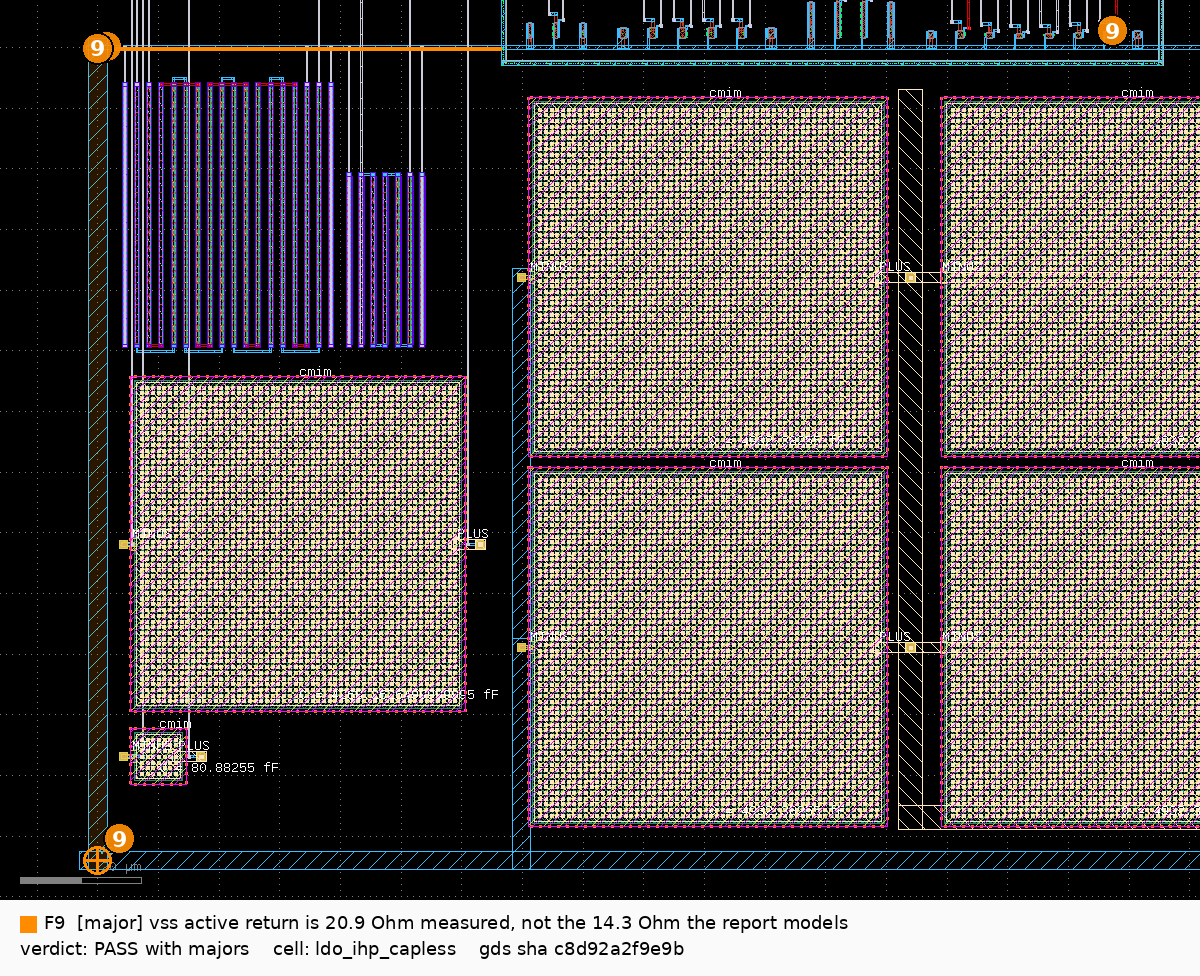
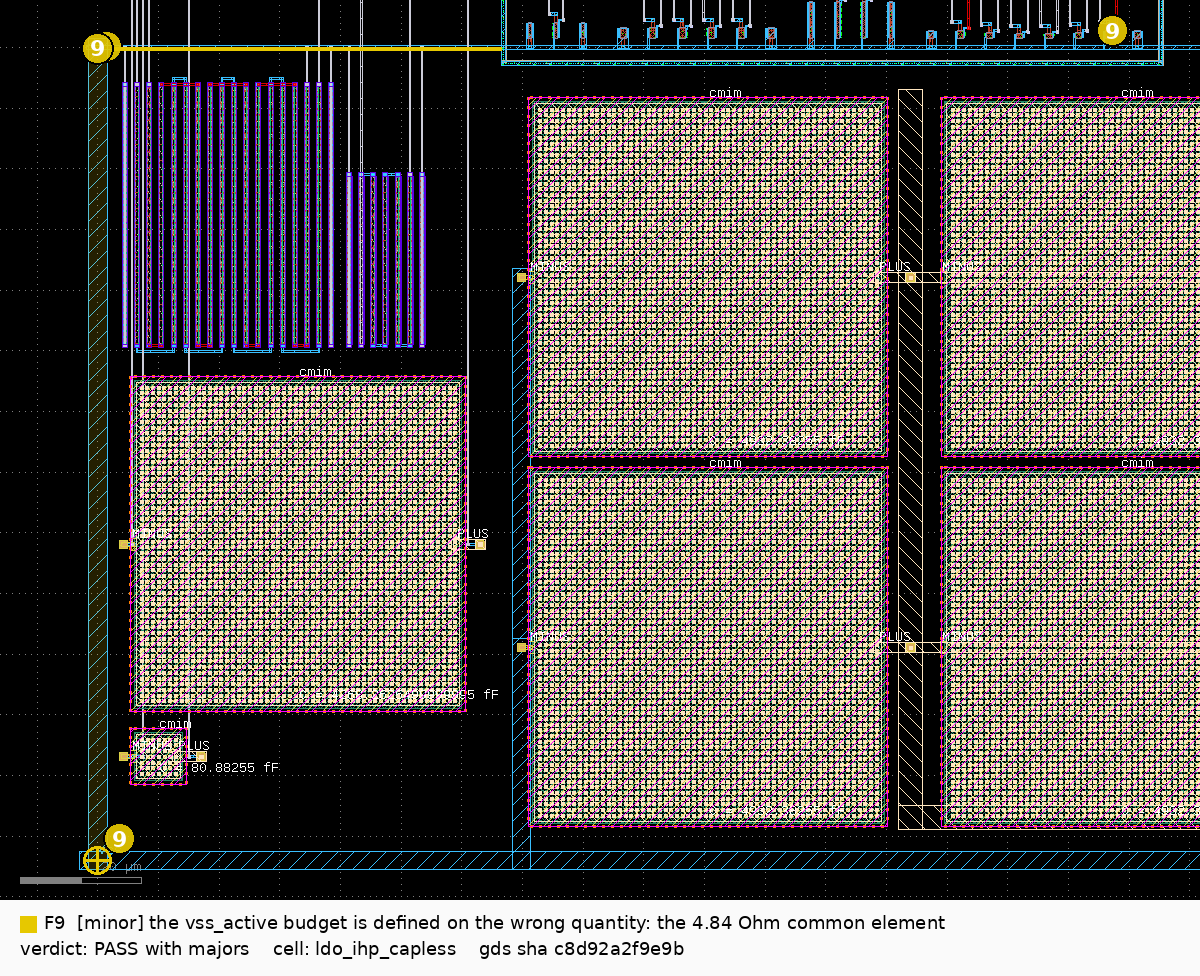
review(layout): F9 demoted to minor by an in-circuit what-if; add the at-a-glance grade
- F9 major -> minor. The report's 14.3 Ohm worst active-device return is still wrong (my
  0.1 um Laplace solve: 20.88 Ohm, 1.27x the brief's 16.4772 Ohm budget), but putting the
  solved return in circuit through the frozen benches shows the whole distributed per-device
  spread is worth +0.04 dB of psrr_1k (67.277 dB from the 4.84 Ohm common element alone ->
  67.316 dB with 14.4-20.9 Ohm per device). The brief's `vss_active` row is budgeted on the
  wrong quantity; as a lumped element the drawn cell is ~4.9 Ohm = 0.30x. Controls reproduce
  the generator's own partition: active devices alone at 32 Ohm = +0.099 dB, XCOUT alone at
  32 Ohm improves S7 to 114.0 mV, everything-but-XCOUT at 32 Ohm = -11.9 dB.
- New in F9's effect: the committed post-layout psrr_1k of 70.093 dB is measured with the
  ground return IDEAL (CC carries no vss resistor; XCOUT is re-attached to the pin), so
  2.82 dB of it is a modelling choice. Still 27 dB above the >= 40 dB spec line.
- Add the "would a senior analog layout engineer accept this at a glance" grade: ABBA
  sequences with coincident centroids (ea_in_pair x = 11.24, ea_nmos_load 27.94, bias_n_group
  85.96 for all three pairs), and all five well/substrate tap regions merge to one polygon
  WITH A HOLE -- the rings actually close. ACCEPT, with the no-MIM-dummy-ring deviation and
  the pin labelling (F13) called out.
- F1: name the RC failure mode from the run log (KLU -> SPARSE 1.3, 33 Rstitch_ coerced to
[…]

diff --git a/layout/ldo_ihp_capless/REVIEW.md b/layout/ldo_ihp_capless/REVIEW.md
@@ -14,20 +14,21 @@ matched at both sizing points, 40/40 knob endpoints, current density 30/30, and 
 post-layout metrics identical to the committed scorecard. **All three review-003 blockers are
 closed**: the certified deck is now the drawn device set (F19, verified by re-measurement), the
 knob ranges are walked and gated (F2, 40/40), and the undershoot credit is no longer banked (F3).
-Four majors stay open, and none of them breaks a spec at tt/27:
+Three majors stay open, and none of them breaks a spec at tt/27:
 
-1. **The `vss` active return is 20.9 Ω measured, against a 16.5 Ω budget and a reported 14.3 Ω.**
-   Two independent methods agree — a Laplace solve on the drawn Metal1 and a nodal solve of the
-   extractor's own stitched mesh — and the fix is one already-walked knob, `rail_w` 0.8 → 1.4,
-   measured at 15.1 Ω (F9).
-2. **The `gate` budget is a gate-only artifact.** Everything the report measures reproduces, but
+1. **The `gate` budget is a gate-only artifact.** Everything the report measures reproduces, but
    nobody measured the net's headroom in the assembled cell. Swept in situ it is **~45 fF at
    0.44 mV/fF with no step** — the drawn 34.45 fF sits at about 43 % of what the net can carry.
    Owner ruling 1 asks for a topology decision on a number the assembled cell contradicts (F3).
-3. **Still tt / 27 °C only**, and both owner rulings now depend on the corner + Monte-Carlo run
+   Demoted since the first draft of this review: **F9**, the `vss` active return. The report's
+   14.3 Ω is wrong (mine: 20.88 Ω, 1.27× the brief's per-device budget), but I then put the solved
+   return in circuit and the entire drawn per-device spread is worth **+0.04 dB** of PSRR. What the
+   metric follows is the 4.84 Ω common element (−2.82 dB), which is 0.29× of budget. F9 is now a
+   **minor**: a budget defined on the wrong quantity, and two wrong numbers in REPORT §6.4/§10.4.
+2. **Still tt / 27 °C only**, and both owner rulings now depend on the corner + Monte-Carlo run
    that has never been done. The brief itself prices `ea_nmos_load` at 0.61 σ, which is **11 % of
    dies** on the dangerous sign of one class alone (F16).
-4. **The RC extraction's mesh is now joined but its values are not usable.** On the fixed platform
+3. **The RC extraction's mesh is now joined but its values are not usable.** On the fixed platform
    the port-to-device resistance of `vdd` is **49 Ω** where the drawn metal is 0.59 Ω, and nine of
    thirteen benches time out. The series-R numbers of record stay hand models — correct ones (F1).
 
@@ -35,11 +36,11 @@ Four majors stay open, and none of them breaks a spec at tt/27:
 
 | # | severity | where (net / device / rule) | evidence | effect | fix → generator parameter | expected |
 |---|---|---|---|---|---|---|
-| **F9** | major | `vss` riser (−71.5, −135.5)–(−68.5, 0.3); bare rail run (−70.0, 0.0)→(−3.4, 0.0); `XMSb` (95.72, 1.42)–(97.35, 2.88) | REPORT §6.4 models the worst active device at **14.3 Ω** of a 16.4772 Ω budget ("89 % spent"). Solved instead of modelled — Metal1 rasterized at 0.1 µm, component flood-filled from the `vss` pin, Laplace at 110 mΩ/sq (validated on an analytic bar to −0.1 %): common series element **4.84 Ω** (report 4.91 ✓), worst device `XMS`b **20.88 Ω**, row end 20.29 Ω. The extractor's own stitched mesh agrees: 10.5–24.0 Ω per device, 4.11 Ω aggregate. Mechanism: from the riser top the return runs **66.6 µm of bare 0.8 µm rail** (9.44 Ω measured; bare rate 0.1375 Ω/µm × 66.6 = 9.16) before the row-A ptap ring even begins — the ring exists only from x = −3.4 to 105.58. §6.4 credits the ring over the whole 170 µm; over the 101 µm where it exists the credit is right (5.92 Ω measured vs 5.56 Ω rail∥ring vs 13.9 Ω bare). 14.3 Ω is what my solve returns for a device at **x = 0**, the near end. | `psrr_1k_db` **−2.0 dB** of quarter-margin budget (hand; brief's −0.45528 dB/Ω × 4.4 Ω over). No spec breaks — 70.09 dB against 40, step at 32 Ω — but the row is reported inside a budget it is 1.27× over. | **`rail_w` → 1.4** (already walked: DRC 0, LVS matched, CD 0.836×). Measured on the generator's own `rail_w_hi` build: worst device **15.13 Ω, 0.92× — inside**. `vss_ret_w` = 6.0 is the wrong lever and I measured that too: common element 4.84 → 2.43 Ω, worst device still 18.47 Ω. Cheaper alternative: extend the ring or rail left so the 66.6 µm bare section disappears. | 20.9 → 15.1 Ω; ~2 dB of PSRR budget back |
 | **F3** | major | `gate`; pass array (47.57, 61.77)–(87.25, 64.89); Metal3 gate track (46.94, 3.01)–(98.09, 60.77) | Every reported number reproduces: `gate` 44.50 fF total / **34.45 to-rail** / 8.911 to `vout`; gate-only S7 **201.744 mV** (report 201.72); I built and extracted at `x_dut_xmp_nf_mult` = 2, 4, 8 and got to-rail **26.63 / 34.45 / 50.03 fF** — 3.91 and 3.895 fF per unit, intercept **18.81 fF** (report 3.9, ~18.8), and nf = 2 fails current density at **1.4626×** (report 1.46×). What nobody measured is the headroom **in the assembled cell**: sweeping a lumped `gate`→`vss` capacitor on the full 186-card extraction through the frozen `tran_load_step` gives S7 = 127.560 / 129.673 / 132.100 / 137.404 / 147.293 / 167.900 mV at +0 / 5 / 10 / 20 / 40 / 80 fF — **0.44 mV/fF, smooth, no step**, crossing 150 mV at **≈ +45 fF**. The brief's "step between 12 and 13 fF" is measured with every other parasitic zeroed; the assembled cell does not have it. | `v_undershoot_mv`: 22.4 mV of measured margin, and ~45 fF (130 % of the drawn value) of headroom on the very net the budget calls 2.87× over (what-if) | **new feature — a measurement, not a fix.** Run the full-PEX corner + MC sweep before an owner is asked to change the pass device, change the output stage, add a certified `ea_o1` capacitor or widen S7. A gate-only budget cannot answer whether 22.4 mV survives ss/−40. | ruling 1 either dissolves or acquires a number; today it has neither |
 | **F16** | major | whole cell | Unchanged and now load-bearing. Both scorecards are tt / 27 °C. Three things make this the decisive gap: F3's margin is a cancellation whose corner behaviour is unmeasured; `brief.json` prices `ea_nmos_load` at 1.0 mV tolerated against a PDK 1 σ of **1.6468 mV** with `out_of_box` at 2.0 mV — I re-derived that σ myself, √2·A_VT/√(W·L) with A_VT = 2.0 mV·µm and W·L = 2.95 × 1.0 µm on the **whole** device, = 1.6468 ✓ — so **P(ΔVT > 2 mV on the dangerous XM3 side) = 11 %** of dies from one class alone, and `bias_p_group` is 9 %; and the re-certification moved Iq to 33.81 µA, toward the S7-vs-bias step review-002 M6 put near 30.7 µA. | not quantified — that is the finding | **new feature** — post-layout corner sweep on the extracted subckt plus a mismatch Monte Carlo on the drawn device set. | the input both open rulings are missing |
-| **F1** | major | `vdd` strap (−73.5, 67.55)–(137.64, 71.55); `vout` riser (61.69, 52.33)–(73.13, 58.33); pass array; pins (−65.5, 69.55) and (133.64, 0.0) | Re-extracted on the fixed platform (`@b61f6c7`, `stitch_mesh=True`): **`mesh_connected=True`, 220 of 243 device pins on the mesh, 0 open nets**, 19 stub nets (the 18 divider nets + `lp_brk`, the rhigh terminal-region limit). The topology defect is fixed. The **values** are not usable here: solving the extractor's own network, R(`vdd` port → each of the 39 pass source columns) = **49.14–49.19 Ω**, identical for every column, i.e. a **~41 Ω common series element** on a path whose drawn TopMetal1 I solve at **0.59 Ω** and whose Metal2 comb at 0.017 Ω; R(pass drains → `vout` port) = **77.6 Ω** against 0.51 Ω drawn; column-to-column ≈ 16 Ω of terminal region in series with each 2.5 µm finger. The riser is 48 cuts per level plus 12 TopVia1, so 41 Ω is ≈ 2 kΩ per cut — a default, not a via. The benches agree: **9 of 13 time out at 600 s** (was: singular matrix) and the four that finish give psrr_1k **−5.549 dB** against 70.09. The one credible net is `vss`, because that path is Metal1 end to end — and there the mesh (4.11 Ω aggregate, 10.5–24.0 Ω per device) matches my drawn-metal solve (4.84, 12.5–20.9) to ~15 %, which is what makes F9 a two-method result. | `v_dropout_mv` **+10.8 mV**, 45 % of the brief's 23.83 mV pool (hand model, now *solved* on the drawn metal: 10.34 × 0.5895 + 8.64 × 0.5446; report 10.98 mV / 46 %) | **new feature, upstream.** Report the residual kpex defect with these numbers — it is terminal/via resistance, a different defect from the island just fixed. Add a sanity gate beside `mesh_connected` (port-to-pin R orders of magnitude above the drawn metal's bound ⇒ refuse). And see F27: the stitched file is not the one consumers glob. | RC becomes a measurement when the terminal values are fixed; until then the hand model stands |
-| **F25** | minor | pins (−65.5, 69.55), (133.64, 0.0), (−70.0, −134.0) | The kpex report database has **594 `[Device Terminal]` markers and zero `[Pin]` markers**, although the schematic kpex is handed declares six ports and the GDS carries 17 text labels. So the stitcher has no port anchor and ties each flat net at a node it picks — `vdd.P0.25`, `vout.P0.25`, `vss.P0.24`: polygon 0 of a layer, not the pin. Every port-referred series-R number is therefore referred to an arbitrary point in the net. `vss` came out right only because its tie landed near the pin. | no electrical effect; it is why F1's numbers cannot be compared to a pin-referred budget | **`gen_ldo.py` pin labelling** — a label **and** a pin-datatype polygon per port on that pin's own layer (`vdd`/`vout` 126/2 + 126/25 at the strap ends, `vss` 8/2 + 8/25 at the riser foot, `vref`/`fb`/`lp_brk` likewise) so kpex emits `[Pin]` nodes. Same change F13 asks for from the other side. | the brief's series-R rows become directly checkable against the extractor |
+| **F1** | major | `vdd` strap (−73.5, 67.55)–(137.64, 71.55); `vout` riser (61.69, 52.33)–(73.13, 58.33); pass array; pins (−65.5, 69.55) and (133.64, 0.0) | Re-extracted on the fixed platform (`@b61f6c7`, `stitch_mesh=True`): **`mesh_connected=True`, 220 of 243 device pins on the mesh, 0 open nets**, 19 stub nets (the 18 divider nets + `lp_brk`, the rhigh terminal-region limit). The topology defect is fixed. The **values** are not usable here: solving the extractor's own network, R(`vdd` port → each of the 39 pass source columns) = **49.14–49.19 Ω**, identical for every column, i.e. a **~41 Ω common series element** on a path whose drawn TopMetal1 I solve at **0.59 Ω** and whose Metal2 comb at 0.017 Ω; R(pass drains → `vout` port) = **77.6 Ω** against 0.51 Ω drawn; column-to-column ≈ 16 Ω of terminal region in series with each 2.5 µm finger. The riser is 48 cuts per level plus 12 TopVia1, so 41 Ω implies ≈ 2 kΩ per cut — a figure **inferred from the arithmetic**, not read out of kpex. The benches agree: **9 of 13 fail** (was: singular matrix), and the log names the mode — ngspice drops from KLU to SPARSE 1.3, coerces all 33 `Rstitch_` to 1e-12 Ω, then `Dynamic gmin stepping failed` / `True gmin stepping failed` / `source stepping failed` / `Transient op started`: **the DC operating point does not converge**, and the transient-op fallback runs out the 600 s budget and the four that finish give psrr_1k **−5.549 dB** against 70.09. The one credible net is `vss`, because that path is Metal1 end to end — and there the mesh (4.11 Ω aggregate, 10.5–24.0 Ω per device) matches my drawn-metal solve (4.84, 12.5–20.9) to ~15 %, which is what makes F9 a two-method result. | `v_dropout_mv` **+10.8 mV**, 45 % of the brief's 23.83 mV pool (hand model, now *solved* on the drawn metal: 10.34 × 0.5895 + 8.64 × 0.5446; report 10.98 mV / 46 %) | **new feature, upstream.** Report the residual kpex defect with these numbers — it is terminal/via resistance, a different defect from the island just fixed. Add a sanity gate beside `mesh_connected` (port-to-pin R orders of magnitude above the drawn metal's bound ⇒ refuse). And see F27: the stitched file is not the one consumers glob. | RC becomes a measurement when the terminal values are fixed; until then the hand model stands |
+| **F9** | minor | `vss` riser (−71.5, −135.5)–(−68.5, 0.3); bare rail run (−70.0, 0.0)→(−3.4, 0.0); `XMSb` (95.72, 1.42)–(97.35, 2.88) | **(a) The report's number is wrong.** §6.4 models the worst active device at **14.3 Ω** of a 16.4772 Ω budget ("89 % spent"). Solved instead of modelled — Metal1 rasterized at 0.1 µm, component flood-filled from the `vss` pin, Laplace at 110 mΩ/sq (validated on an analytic bar to −0.1 %): common series element **4.84 Ω** (report 4.91 ✓), worst device `XMS`b **20.88 Ω** = **1.27×** budget. Mechanism: from the riser top the return runs **66.6 µm of bare 0.8 µm rail** (9.44 Ω) before the row-A ptap ring begins — that ring spans only x = −3.4 to 105.58, and §6.4 credits it over the whole 170 µm. 14.3 Ω is my solve for a device at **x = 0**, the near end. §10.4's "`rail_w` 1.2 → ~12.7 Ω" has the same error; interpolating my two solved builds gives ~16.6 Ω, on the budget line. **(b) But that is not the quantity the metric follows.** Put in circuit through the frozen benches (every vss-connected element behind the common element, each active group behind its own extra hop, XCOUT on its own strap — the generator's split): common 4.84 Ω alone → psrr_1k **67.277 dB**; adding the full drawn 14.4–20.9 Ω spread → **67.316 dB**. The whole distributed per-device return is worth **+0.04 dB**. As a lumped element the drawn cell is ~4.9 Ω = **0.30× of budget**. Controls confirm the report's own partition: active devices alone behind 32 Ω move psrr_1k **+0.099 dB** and S7 +0.11 mV; XCOUT alone behind 32 Ω improves S7 to 114.0 mV. | `psrr_1k_db` **−2.82 dB** (what-if) — and this is the real content: the committed 70.093 dB is measured with the ground return **ideal** (CC carries no vss resistor; XCOUT is re-attached by name to the pin), so 2.82 dB of the reported figure is a modelling choice, 2.78 dB of it the common element. S6 is ≥ 40 dB, so 67.3 dB is not a spec risk. | **Correct the brief, not the drawing.** Budget `vss_active` on the **common series element** (4.84 Ω drawn, 0.29×) and drop the "worst active device" row — I measured it at +0.04 dB. Correct §6.4 (14.3 → 20.88 Ω at the far end) and §10.4 (1.2 → ~16.6 Ω). Only if the corrected budget ever binds: `rail_w` = 1.4 is measured (bounds build, DRC 0, LVS matched, CD 0.836×) at 15.13 Ω worst / 4.84 Ω common, worth **+1.15 dB** in circuit; `vss_ret_w` = 6.0 takes the common element to 2.43 Ω and is the better lever for the quantity that matters. | no metric moves > ~1 dB of a 27 dB margin; the deliverable is a corrected budget row and two corrected REPORT numbers |
+| **F25** | minor | pins (−65.5, 69.55), (133.64, 0.0), (−70.0, −134.0) | The kpex report database has **594 `[Device Terminal]` markers and zero `[Pin]` markers**, although the GDS carries 17 text labels **and those labels do reach kpex** — its raw netlist header is `.SUBCKT ldo_ihp_capless vss fb lp_brk ea_o1 ea_out nbias x1 y gate ea_n vdd ea_tail vref pbias vout`, 15 ports derived from them. So "the generator draws no pin labels" is not the mechanism; whatever makes a `[Pin]` marker, a text label on the routing layer is not it. So the stitcher has no port anchor and ties each flat net at a node it picks — `vdd.P0.25`, `vout.P0.25`, `vss.P0.24`: polygon 0 of a layer, not the pin. Every port-referred series-R number is therefore referred to an arbitrary point in the net. `vss` came out right only because its tie landed near the pin. | no electrical effect; it is why F1's numbers cannot be compared to a pin-referred budget | **Do not redraw anything yet.** A pin-datatype polygon per port (`vdd`/`vout` 126/2 + 126/25 at the strap ends, `vss` 8/2 + 8/25 at the riser foot, `vref`/`fb`/`lp_brk` likewise) is a **hypothesis** about what kpex 0.3.12 wants, not a diagnosis. Ask the platform which geometry produces a `[Pin]` marker — on the 5-T OTA example where the stitch was verified — then draw that. Same change F13 asks for from the other side. | the brief's series-R rows become directly checkable against the extractor |
 | **F26** | minor | `layout/signoff.py` `pex()`, ~line 275 | `pex()` returns `{ok, available, mode, netlist, n_c, n_r, per_net_c_ff, reason, log_tail}` and drops `PexResult.mesh_connected` and `.mesh` — the two fields that separate "RC ran" from "RC measured something". On this cell they carry the real state: 220/243 pins, 0 open nets, **19 stub nets**, so any `fb`/`lp_brk` series-R statement from an RC run is empty. The stage prints `PEX: ok=True n_C=186 n_R=8566` and the JSON keeps no more. The docstring above the call is also stale — it explains a cwd dance to contain `<cell>_extracted.cir`, which the platform fixed at `97cc0be`. | no electrical effect; the record cannot distinguish a measured RC row from an empty one | **`layout/signoff.py`**: add `mesh_connected` and `mesh` to the dict, and gate on them the way DRC and LVS are gated now. | the round's JSON says how much of the mesh was connected |
 | **F27** | minor | `layout/postlayout.py` `main()` | The platform writes `..._k25d_pex_netlist.spice` (raw) **and** `..._k25d_pex_netlist_stitched.spice`, and `PexResult.netlist_path` names the stitched one. `postlayout.py` selects with `rglob("*_pex_netlist.spice")` and demands exactly one match — the stitched name does not match that glob, so it finds exactly one file, reports no ambiguity, and measures the **raw** netlist. I had to symlink the stitched file under the expected name to run the benches on it. This is F17 in a new form, and worse: it fails silently and confidently. | an RC scorecard from this path would be the unstitched netlist, i.e. the artifact F1 says measures nothing (what-if) | **`layout/postlayout.py`**: take the path from the PEX stage's record (`signoff.json` already has `pex.netlist`), or prefer `*_stitched.spice`. | the file the extractor named is the file the benches measure |
 | **F14** | minor | `decks/candidate/design.json` | Still `"sizing": {}`. The deck set was re-issued wholesale at `bf3a4f8` — all 13 `.spice`, `SHA256SUMS`, `decks.sha256`, `scorecard.json` — and the file named as the sizing of record is still empty, across a certification boundary that introduced a new knob (`x_dut_xmp_nf_mult`). | provenance only | write the resolved knobs at freeze time, or drop the key rather than carry it empty | the certified deck names its own sizing point |
@@ -63,6 +64,24 @@ Four majors stay open, and none of them breaks a spec at tt/27:
 | **F12** | note ✅ **fixed** | `bias_p_group` (28.57, 26.16)–(50.39, 36.78); resistor block (−66.0, −49.5)–(−16.1, −5.78) | Read from my rebuild: `bias_p_group` runs d(10.62) XMBP(10.62) XMT(10.62) XM6(6.15) d(6.15) — the right dummy matches its neighbour. The resistor block is one pitch throughout: divider 18 segments at 2.0 µm from −66 to −32 (16 members + a tied dummy each end) and `XRB` 7 segments at the **same** 2.0 µm from −29 to −17 (5 + a dummy each end), where it was 5 at 1.6 µm with none. | — | — | closed |
 | **F17** | note ✅ **fixed** (see F27) | `layout/postlayout.py` | `hits[-1]` is replaced by "exactly one match, or list them with mtimes and stop", and the freshness half checks out by measurement: the committed `asbuilt/core_pex.sp` is byte-identical to my own extraction on all 186 `Cext_` cards. The file also grew `--keep-c` / `--drop-c` / `--no-c` and refuses to overwrite the record — which is how F3 and F19 above are reproducible by anyone. The *identity* half is re-opened as F27. | — | — | closed |
 
+## Would a senior analog layout engineer accept this at a glance?
+
+Graded on geometry read out of the GDS I rebuilt, not on impression.
+
+| what a reviewer looks at | measured | verdict |
+|---|---|---|
+| matching sequence, `ea_in_pair` | dummy · XM1a · XM2a · XM2b · XM1b · dummy at x = 0.29 / 4.67 / 9.05 / 13.43 / 17.81 / 22.19 — **ABBA**, both centroids at x = 11.24 | ✅ common centroid, as a *ratio*-setting pair needs |
+| matching sequence, `ea_nmos_load` | six slots at x = 15.74 … 40.14, **ABBA**, both centroids at x = 27.94 | ✅ |
+| matching sequence, `bias_n_group` | eight slots at x = 66.54 … 100.55; the three device pairs are ABC·CBA with **all three centroids at x = 85.96** | ✅ three-class common centroid |
+| pair geometry + neighbourhood | translation-XOR of all **seven** classes at device bbox + 1.2 µm = **0.000 µm²** each, with equal Via1 counts | ✅ |
+| dummies at row ends | present at both ends of every device row; `bias_p_group` ends d(10.62)…d(6.15), each dummy sized to **its own neighbour** | ✅ |
+| do the tap rings **close**? | five well/substrate islands, each tap region merges to **one polygon with a hole** — a true ring, not contacts on a pitch: NWell islands (−3.71, 22.01)/(55.17, 22.01)/(44.57, 57.52) with 444 / 326 / 296 contacts and 0.98–0.99 bbox coverage, and two ptap rings (−3.40, −2.90) and (43.07, 50.83) | ✅ |
+| resistors on one unit pitch | divider 18 segments at **2.0 µm** (16 members + a tied dummy each end); `XRB` 7 at the **same** 2.0 µm (5 + a dummy each end) | ✅ |
+| capacitors on one pitch, dummy ring | XCOUT 2×2 on one pitch about a central top-plate spine, bottom plates on one side — but **no MIM dummy ring** | ⚠ declared deviation (PLAN §6: a ring of 58 µm units would triple the block). Accepted, recorded |
+| pin labels on the declared sides | `vss` ×1 ✅, `lp_brk` at the output edge ✅, `fb` on the left edge ✅ — but `vdd` carries **two** labels and `vref` sits **71 µm inside** the cell | ⚠ F13 |
+| strap width vs J_max | 30/30 current-density budgets, worst **0.836×**; over the 40-endpoint knob walk, worst 0.9835× | ✅ |
+| **overall** | reads as a laid-out cell: framed rows, dummies, closed rings, one pitch per array, common centroids that actually coincide | **ACCEPT**, with the two ⚠ above |
+
 ## What reproduced
 
 | | designer's claim | my measurement | |
@@ -81,7 +100,8 @@ Four majors stay open, and none of them breaks a spec at tt/27:
 | `gate` vs `nf_mult` | 26.63 / 34.45 fF, 1.46× CD at nf = 2 | 26.63 / 34.45 / **50.03** at nf = 2 / 4 / 8; CD **1.4626×** at nf = 2; nf = 3 refused by an assert | match, extended |
 | series R, TopMetal1 | 0.598 Ω (`vdd`), 0.556 Ω (`vout`) | Laplace on the drawn metal: **0.5895** and **0.5106** Ω; Metal2 combs add 0.017 / 0.034 Ω; pool 10.80 mV of 23.83 (45 %) vs the report's 10.98 / 46 % | **match** |
 | series R, `vss` common | 4.91 Ω | **4.84 Ω** (drawn-metal solve), 4.11 Ω aggregate from the stitched mesh | match |
-| series R, `vss` worst device | 14.3 Ω, "89 % of 16 Ω" | **20.88 Ω** drawn-metal, 10.5–24.0 Ω extracted — **1.27× the budget** | **DIFFERS — F9** |
+| series R, `vss` worst device | 14.3 Ω, "89 % of 16 Ω" | **20.88 Ω** drawn-metal, 10.5–24.0 Ω extracted — 1.27× the budget, but worth **+0.04 dB** in circuit | **DIFFERS — F9** |
+| PSRR with the drawn ground return | not measured (return is ideal in both rows) | 70.093 → **67.316 dB** with the solved return in circuit; 67.277 dB from the common element alone | **new — F9** |
 | RC benches | 8/13 ran, 7 violations | 4/13 ran, 4 violations (unstitched); **4/13 ran, 9 timeouts** (stitched) | **DIFFERS — F23, F1** |
 | RC mesh | electrically absent | confirmed absent on the old platform; on `@b61f6c7` `mesh_connected=True`, 220/243 pins, 0 open nets, 19 stub nets — but 49 Ω port-to-device on `vdd` (F1) | fixed topology, unusable values |
 
@@ -103,6 +123,9 @@ Four majors stay open, and none of them breaks a spec at tt/27:
   and computed on the whole device) but did not simulate the distribution.
 - **Iteration diffs** — I verified it11 → it12 by rebuilding and XORing. The other ten
   `diff_it*_it*.png` were not opened.
+- **The report's "a Metal3-over-Metal2 shield costs only +3 fF on `gate`→`vout`" claim** — not
+  rebuilt. ~51 µm² of added M3-over-M4 overlap at ~0.05 fF/µm² makes +3 fF plausible, and it is
+  moot either way: F3 measures ~45 fF of in-situ headroom on that net.
 - **Inductance, sealring, fill, ESD, antenna** — out of scope per PLAN §7.
 
 ## Verdict
@@ -111,14 +134,16 @@ Four majors stay open, and none of them breaks a spec at tt/27:
 all three review-003 blockers are closed by measurement rather than by changelog. Three things
 would go back to the designer and one to the platform:
 
-1. **F9** — the `vss` active return is 20.9 Ω, not 14.3, and that is 1.27× the brief's budget;
-   `rail_w` = 1.4 measures 15.1 Ω and is already inside the walked range.
-2. **F3** — the `gate` budget is gate-only; swept in situ the net has ~45 fF of headroom, so
-   owner ruling 1 should ask for the corner run (**F16**), not for a topology change.
+1. **F3** — the `gate` budget is gate-only; swept in situ the net has ~45 fF of headroom at
+   0.44 mV/fF with no step, so owner ruling 1 should ask for the corner run (**F16**), not for a
+   topology change.
+2. **F16** — the cell has never been measured outside tt / 27 °C, and the brief's own 0.61 σ on
+   `ea_nmos_load` is 11 % of dies on the dangerous side. Both owner rulings depend on this run.
 3. **F1** — the RC mesh is joined but reads 49 Ω where the drawn metal is 0.59 Ω, and nine of
    thirteen benches time out; the residual defect is terminal/via resistance and belongs upstream.
 
 Every magnitude above is labelled `what-if` (measured on a modified netlist through the frozen
 benches), `solve` (a Laplace or nodal solve on drawn geometry / extracted values) or `hand`
-(arithmetic from PDK constants). The `what-if` numbers are single-variable and can be A/B'd one at
+(arithmetic from PDK constants). F9 is the case for doing that: read as a hand model it was a
+major, and one what-if through the frozen benches made it a minor. The `what-if` numbers are single-variable and can be A/B'd one at
 a time.
